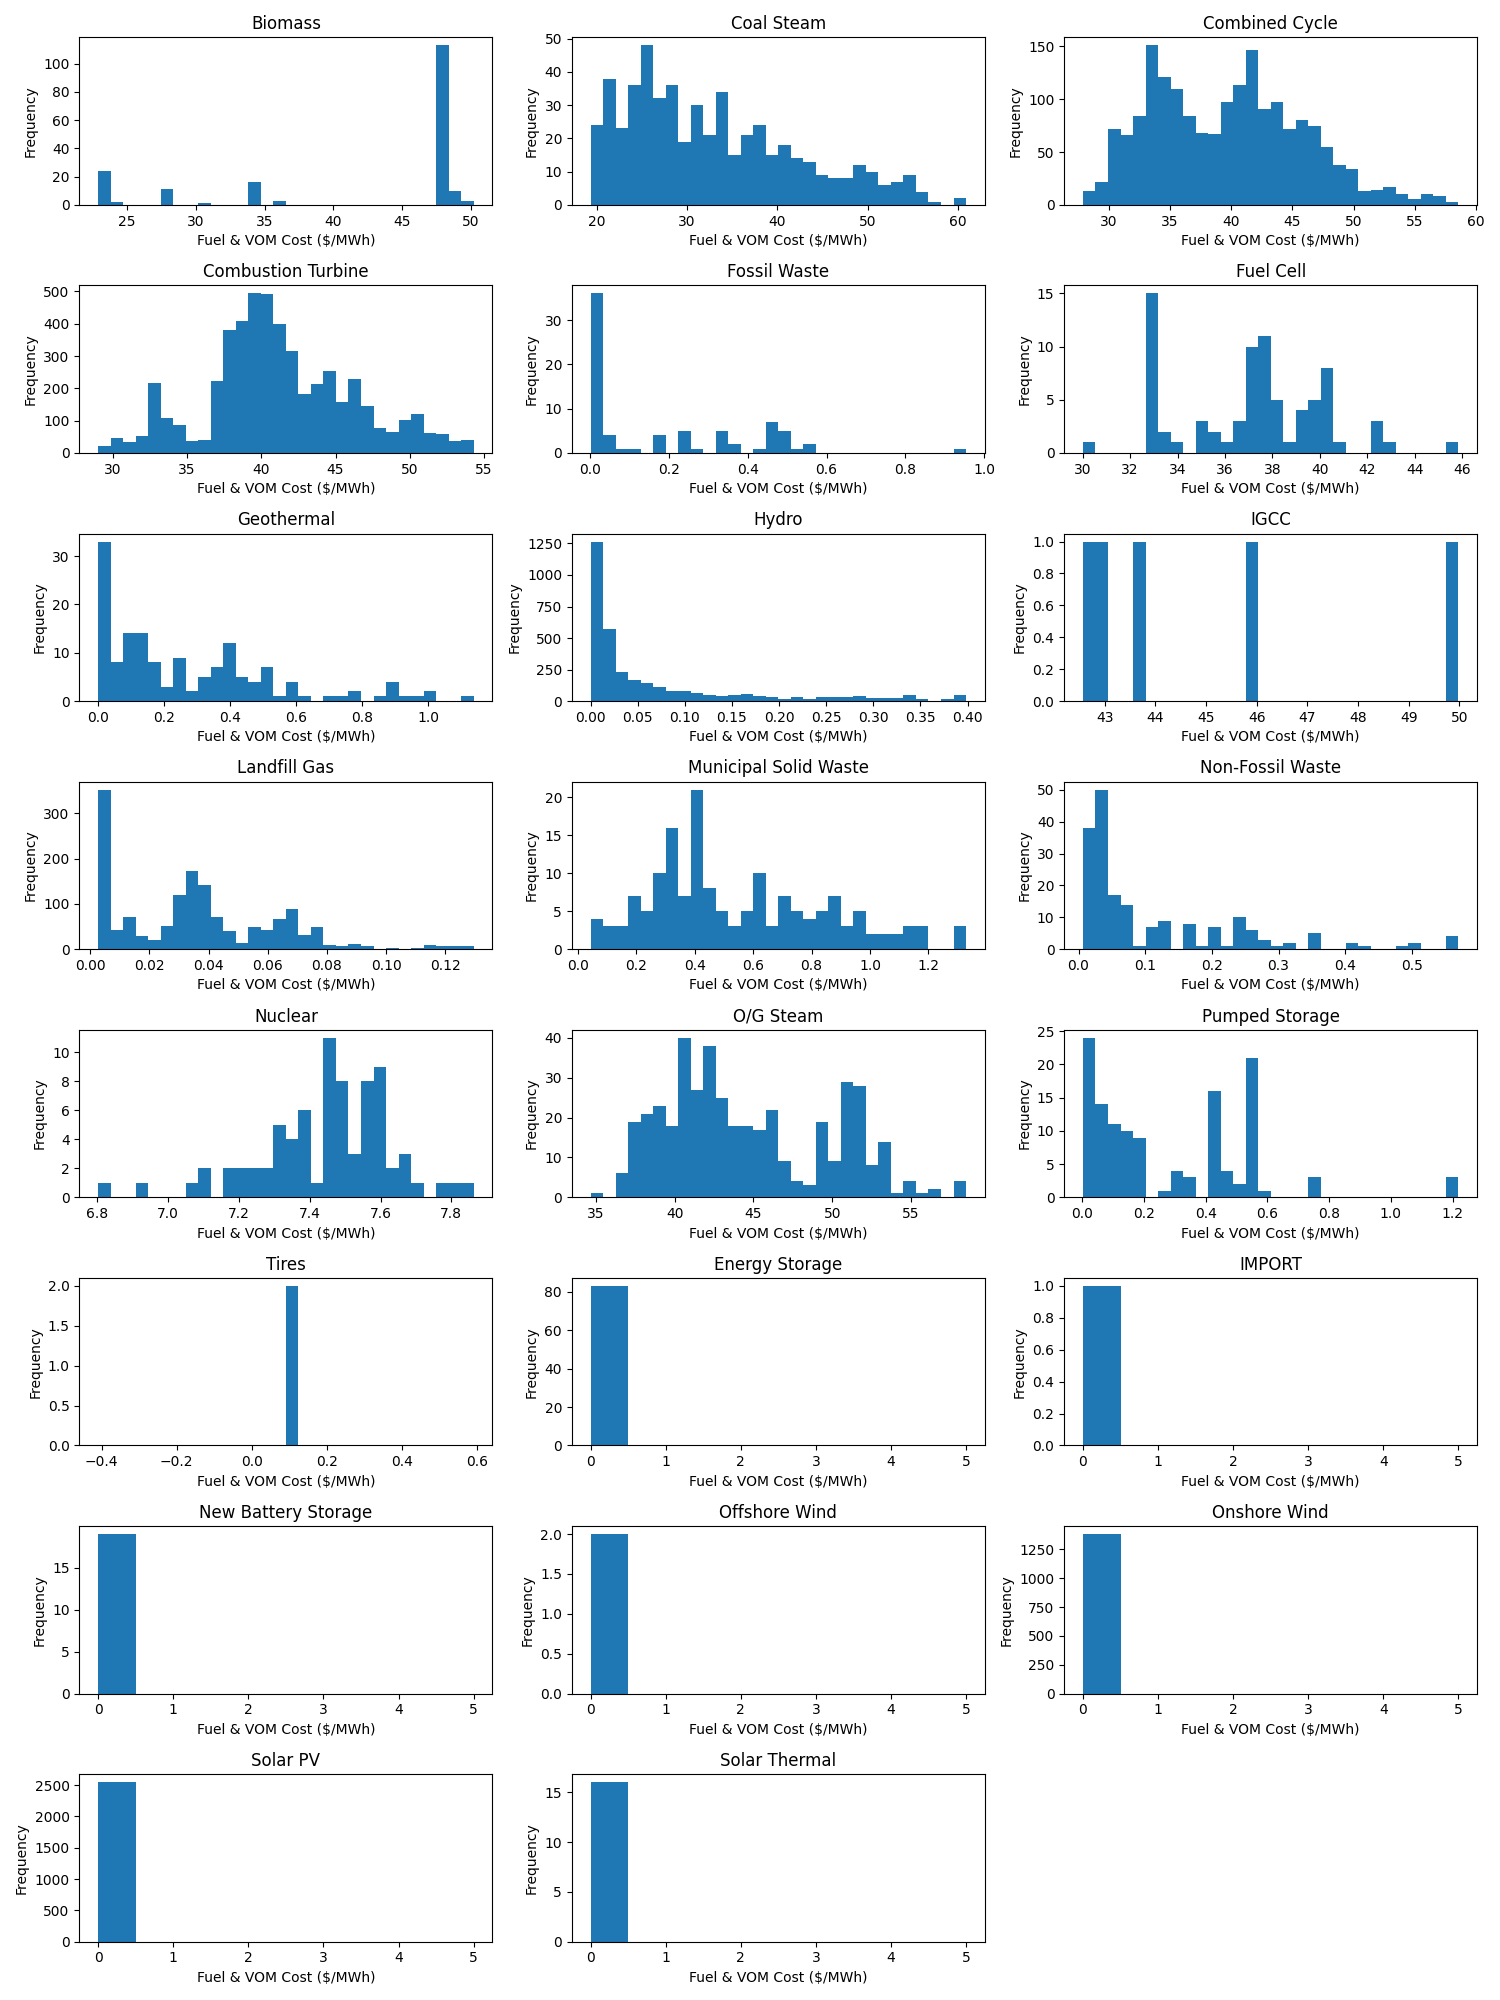
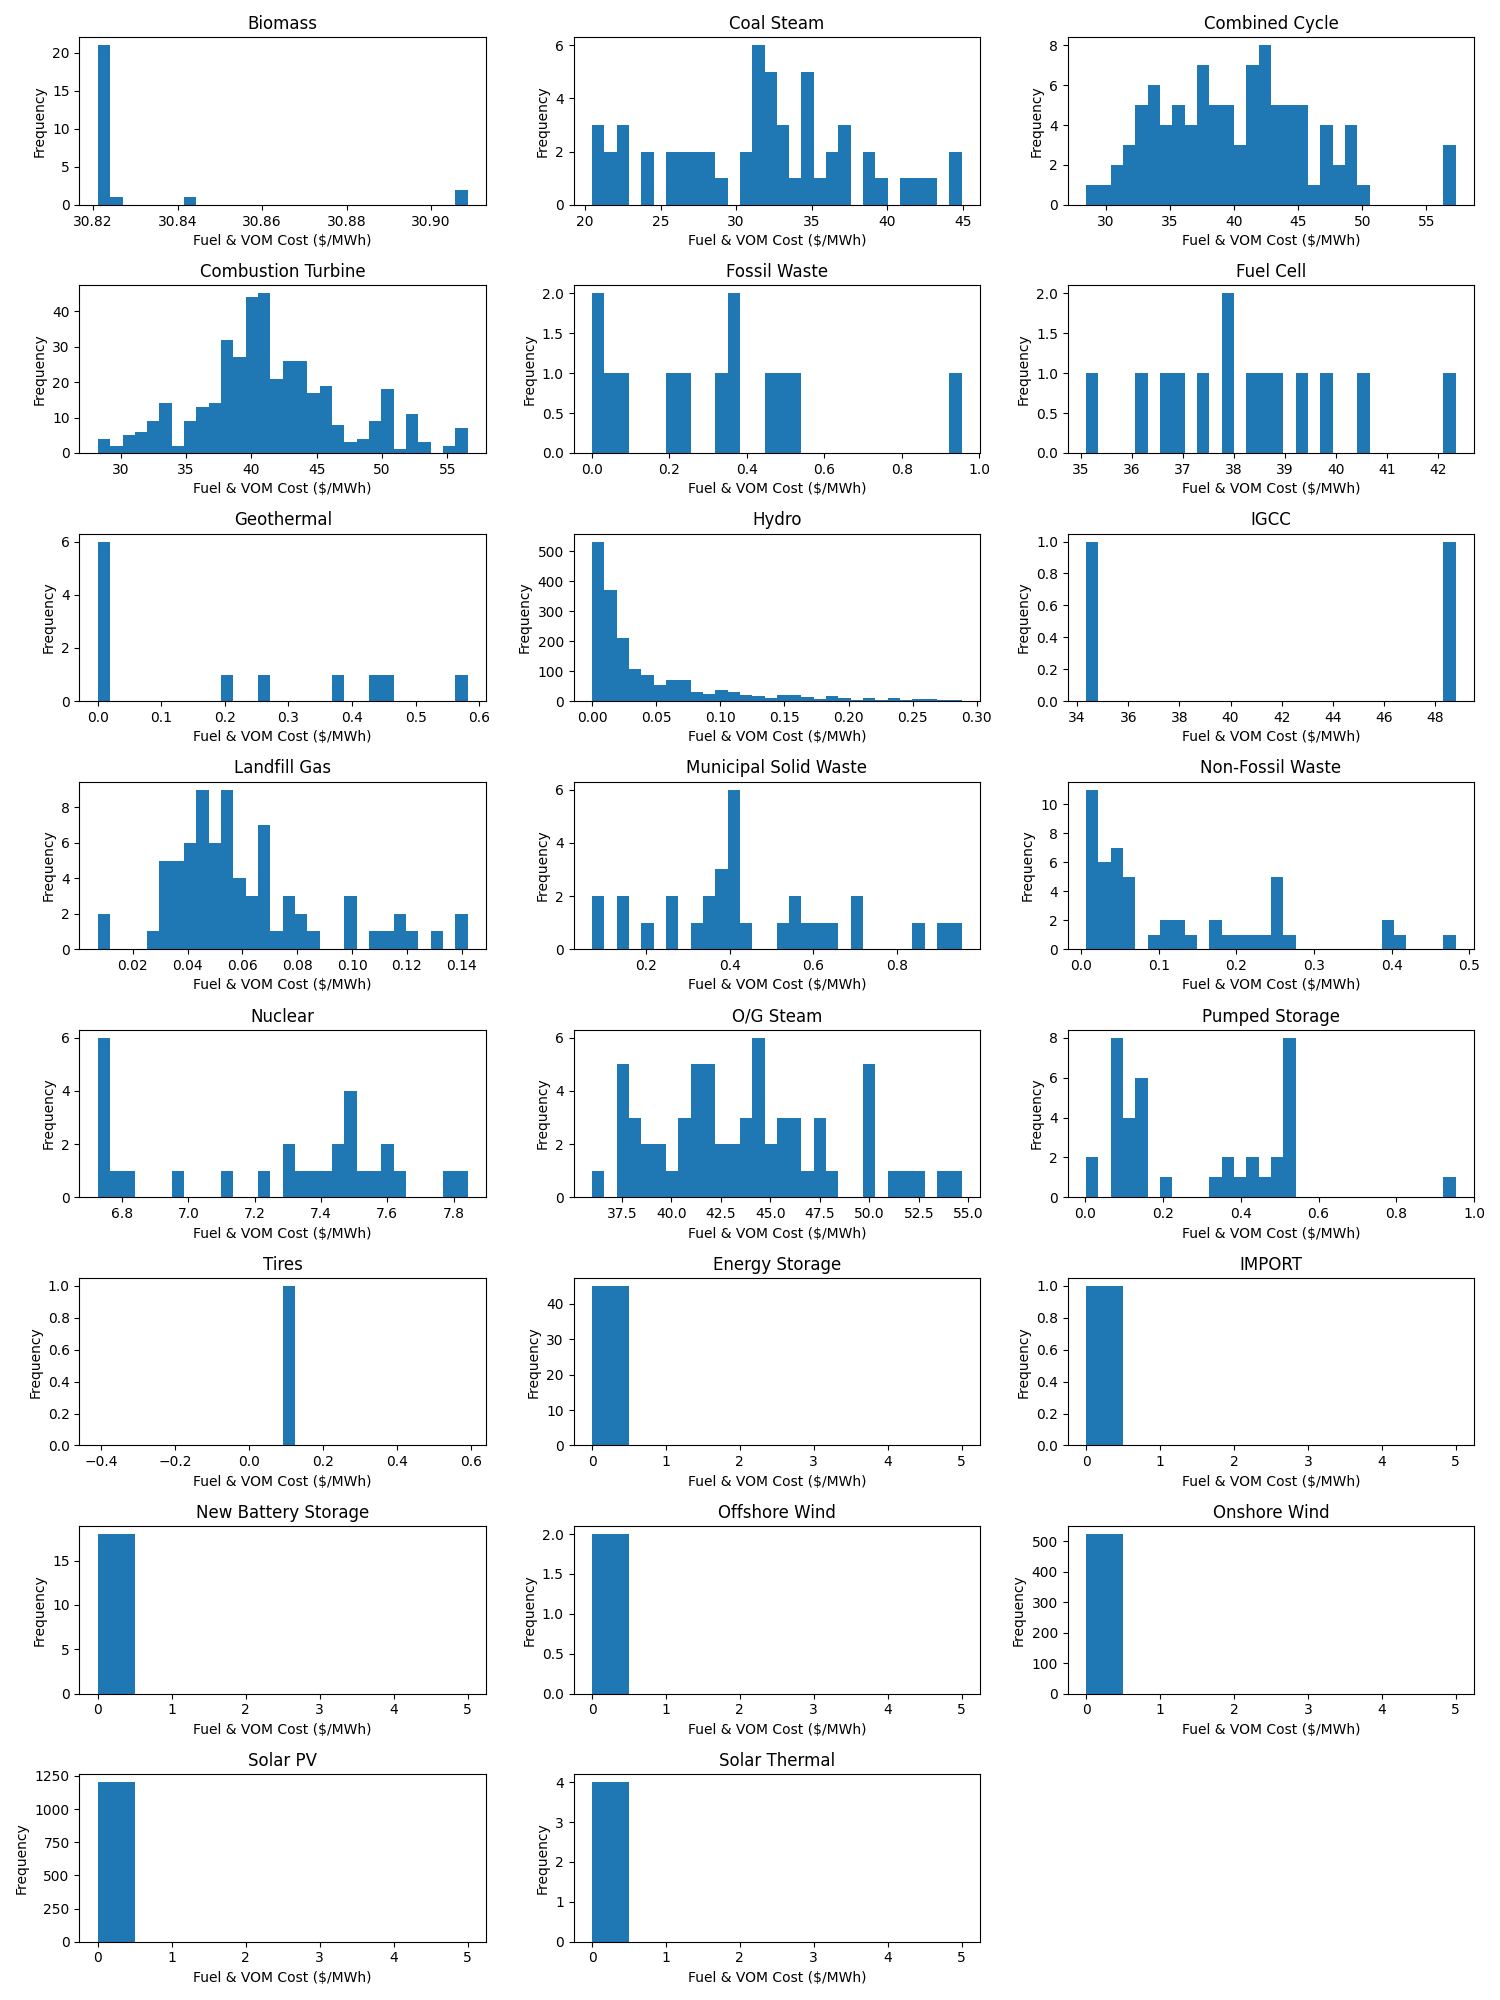
small adjustment on clustring 31 may 2024

diff --git a/Model Input/merging_file.py b/Model Input/merging_file.py
@@ -3,6 +3,7 @@ import numpy as np
 from sklearn.cluster import KMeans
 import networkx as nx
 import time
+import math
 # %%
 
 
@@ -321,16 +322,7 @@ def haversine_distance_miles(lat1, lon1, lat2, lon2):
 
 
 def cluster_plants(df, heat_rate_distance, emission_rate_distance, cost_rate_distance, resolution, heatrate_weight, emission_weight, cost_weight):
-    # df = Plants_community.copy()
-    # heat_rate_distance = 5000
-    # emission_rate_distance = 28000
-    # cost_rate_distance = 50
-    # heatrate_weight = 10
-    # emission_weight = 12
-    # cost_weight=  1.75
-    # resolution = 20
-    # Get all unique regions
-    # region_name = "S_VACA"
+
     unique_regions = df['RegionName'].unique()
 
     all_regions_clusters = {}
@@ -354,10 +346,10 @@ def cluster_plants(df, heat_rate_distance, emission_rate_distance, cost_rate_dis
 
         links = []
 
-        weighted_distance_function = lambda link: (
-                heatrate_weight * link['heat_rate_distance'] +
-                emission_weight * link['emission_rate_distance'] +
-                cost_weight * link['cost_rate_distance']
+        weighted_distance_function = lambda link: math.e**-(
+                heatrate_weight * (link['heat_rate_distance'] / heat_rate_distance) +
+                emission_weight * (link['emission_rate_distance'] / emission_rate_distance) +
+                cost_weight * (link['cost_rate_distance'] / cost_rate_distance)
         )
 
         for idx_source in range(len(df_region)):

diff --git a/Model Input/main.py b/Model Input/main.py
@@ -20,7 +20,7 @@ Plant_short_fixed_fuelC = assign_fuel_costs(Plant_short)
 Plant_short_fixed_Em = assign_em_rates(Plant_short_fixed_fuelC)
 
 # aggregation of power plants
-Plants_community, all_regions_clusters = cluster_plants(Plant_short_fixed_Em, 2000, 2000, 10, 3, 1, 1, 1)
+Plants_community, all_regions_clusters = cluster_plants(Plant_short_fixed_Em, 2000, 2000, 10, 1.1, 1, 1, 1)
 # Aggregating the power plants
 Plants_ungroup,  Plants_group = cluster_and_aggregate(Plants_community)
 

diff --git a/Model Input/test_price.py b/Model Input/test_price.py
@@ -4,6 +4,7 @@ import matplotlib.pyplot as plt
 # %%
 # Your nested data dictionary
 Price_test = Plant_short.copy()
+Price_test = Plants_group.copy()
 # Price_test["&/MWh"] = Price_test["cost"]
 Price_test["&/MWh"] = Price_test["Fuel_VOM_Cost"]
 # %%
@@ -80,6 +81,6 @@ for j in range(i + 1, len(axes)):
 plt.tight_layout()
 
 # Show plot
-# plt.show()
+plt.show()
 # Save the figure in PNG format
-plt.savefig('subplot_grid3.png')
+# plt.savefig('subplot_grid3.png')
